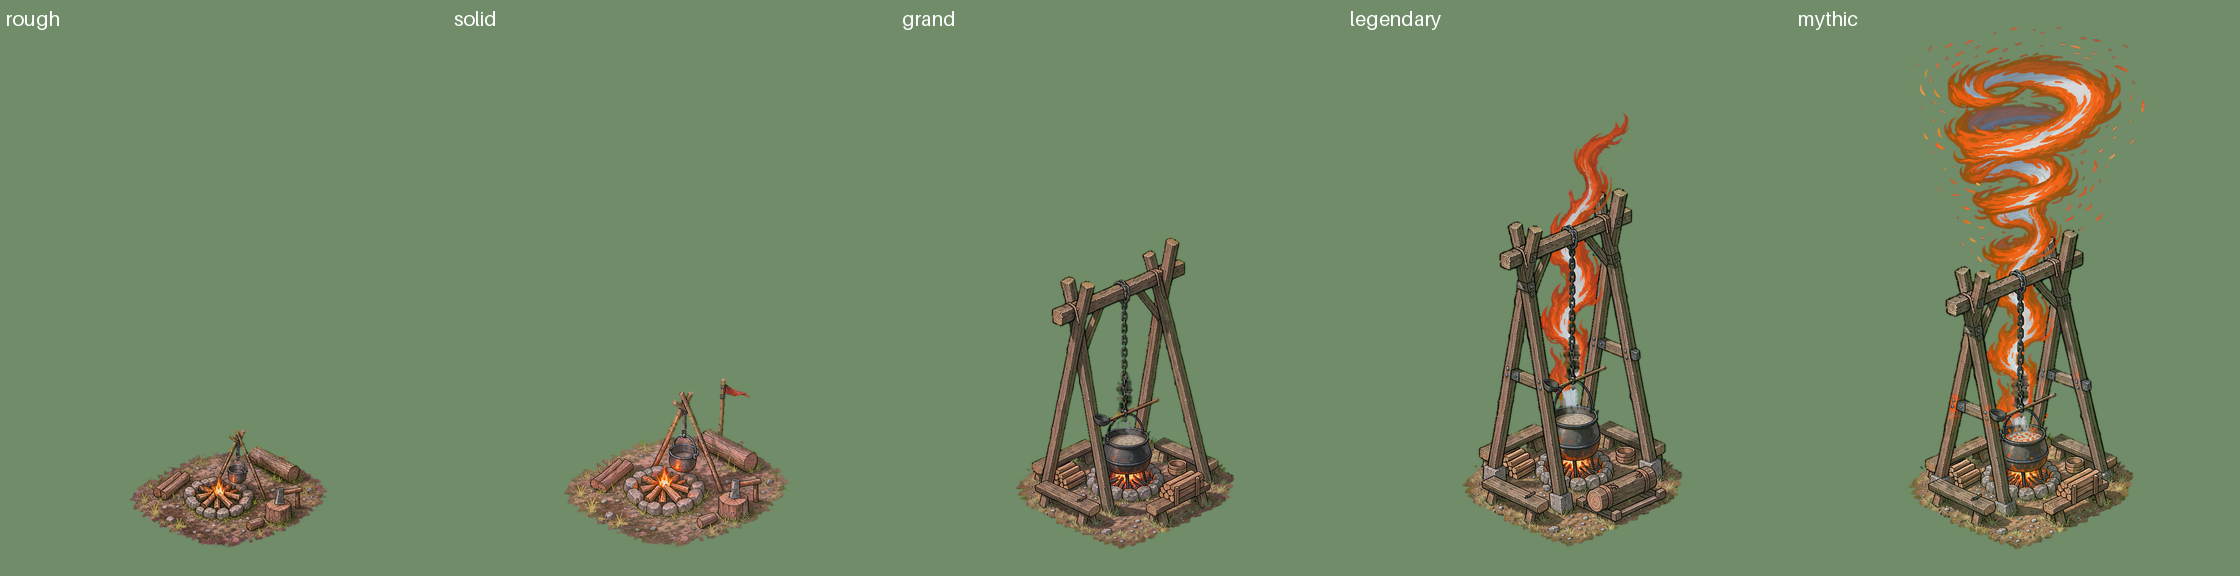
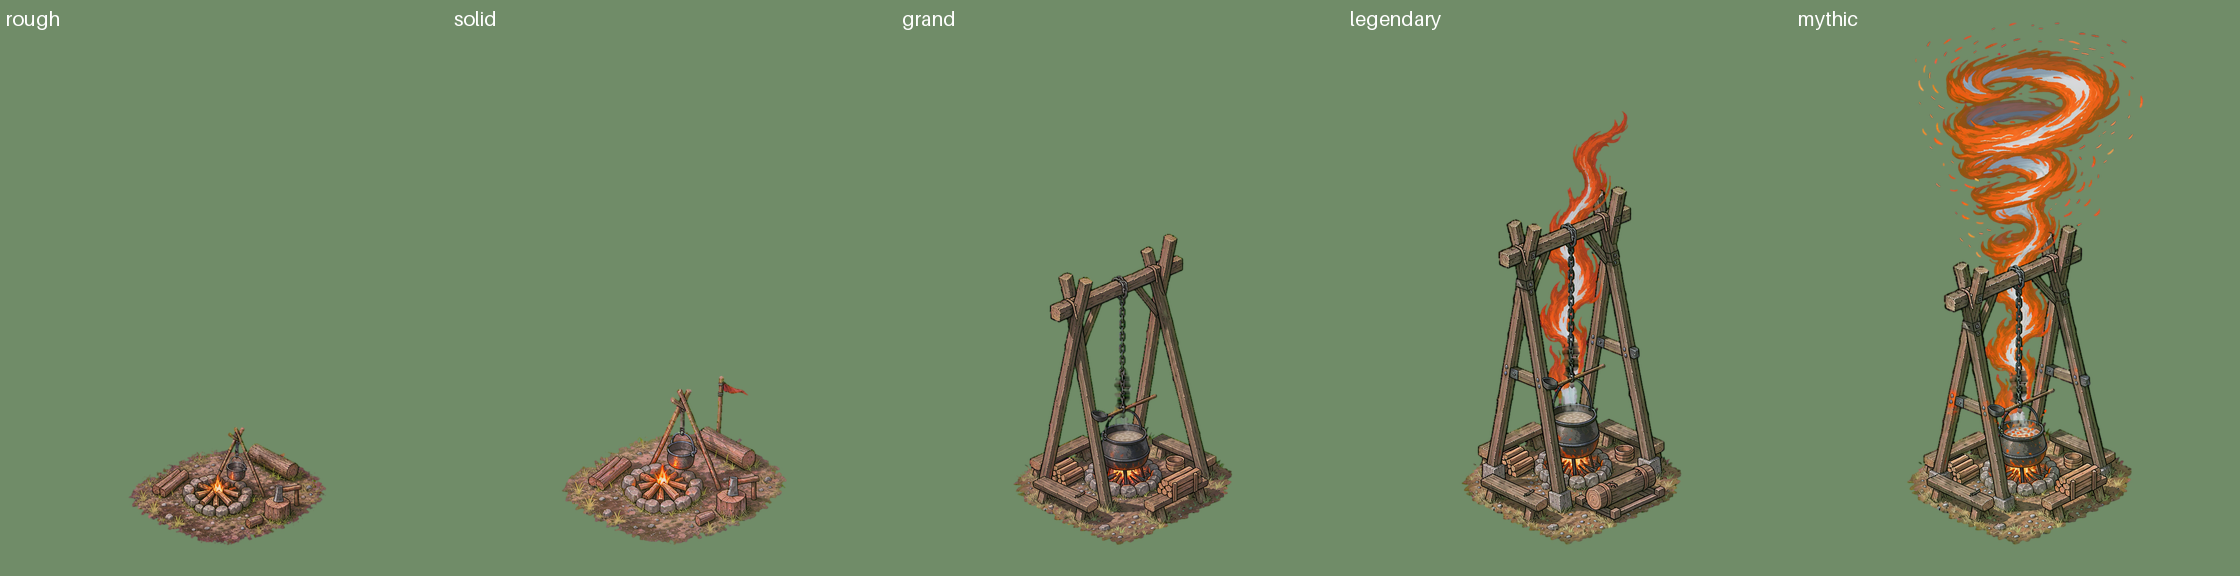
feat(bld): stage scale targets and contact registration by script, four final strips pass

diff --git a/scripts/bld/final.py b/scripts/bld/final.py
@@ -6,6 +6,7 @@
     final.py pick <code> <stage> N [--try N]             # keys the magenta, writes final/<stage>.png, measures into measures.json
     final.py rekey <code>                                # re-keys the elements from their .raw.png, no FLUX
     final.py elements <code>                             # teasers and gags, one subject per image, keyed
+    final.py repick <code>                               # seats again the picked stages on the emprise, no FLUX
     final.py strip <code>                                # final/strip.png, the five stages side by side
 
 Run paint and elements as `flock ~/.cache/bati-flux.lock timeout 590 python3 scripts/bld/final.py ...`. Never overwrites.
@@ -145,6 +146,51 @@ def measure(rgba, diamond_bottom=BOTTOM):
             "contact_dy": int(ys.max() - diamond_bottom), "contact_dx": int(low.mean() - W // 2)}
 
 
+FOUR = ("dragon_lair", "heroes_hall", "champion_arena")  # the deeds: four stages
+FRAC = {"rough": 0.38, "solid": 0.52, "grand": 0.68, "legendary": 0.84, "mythic": 1.0}
+FRAC4 = {"rough": 0.40, "solid": 0.58, "grand": 0.78, "mythic": 1.0}
+USEFUL = BOTTOM - 12  # the canvas's useful height while the mythic is not picked yet
+
+
+def target_h(code, stage, ms):
+    """FLUX fills the frame whatever the prompt says, so the height of a stage is set here: a share of the picked mythic's height."""
+    ref = ms["mythic"]["height"] if "mythic" in ms else USEFUL
+    return (FRAC4 if code in FOUR else FRAC)[stage] * ref
+
+
+def shrink(rgba, target):
+    """Scale the painting down (never up) to `target` px of silhouette height, in premultiplied alpha, with a light sharpening so
+    the ink line keeps its weight. Returns (image on a canvas of the same size, factor)."""
+    h = measure(rgba)["height"]
+    if target >= h:
+        return rgba, 1.0
+    f = target / h
+    box = rgba.getbbox()
+    part = rgba.crop(box)
+    nw, nh = max(1, round(part.width * f)), max(1, round(part.height * f))
+    small = part.convert("RGBa").resize((nw, nh), Image.LANCZOS).convert("RGBA")
+    rgb = small.convert("RGB").filter(ImageFilter.UnsharpMask(1.0, 70, 2))
+    rgb.putalpha(small.getchannel("A"))
+    out = Image.new("RGBA", rgba.size)
+    out.paste(rgb, ((box[0] + box[2] - nw) // 2, box[3] - nh))  # same centre, same lowest row: seat moves it afterwards
+    return out, f
+
+
+def seat(rgba, margin=12):
+    """Translate the painting, pixel for pixel, so its ground contact sits on the emprise's lowest corner (W/2, BOTTOM). If the top
+    of the silhouette then comes within `margin` px of the canvas top, the canvas grows upward by the missing rows (the anchor, the
+    distance to the canvas bottom, does not move). Returns (image, rows added on top)."""
+    m = measure(rgba)
+    dy, dx = BOTTOM - m["bottom_y"], W // 2 - m["contact_x"]
+    pad = max(0, margin - (m["top_y"] + dy))
+    if m["left"] + dx < 0 or m["right"] + dx >= W:
+        sys.exit(f"the painting does not fit the width once seated ({m['left']}+{dx}, {m['right']}+{dx})")
+    src, out = np.asarray(rgba), np.zeros((H + pad, W, 4), np.uint8)
+    y0, y1 = max(0, -(dy + pad)), min(H, H + pad - (dy + pad))  # source rows that land inside the new canvas
+    out[y0 + dy + pad:y1 + dy + pad, max(0, dx):W + min(0, dx)] = src[y0:y1, max(0, -dx):W - max(0, dx)]
+    return Image.fromarray(out, "RGBA"), pad
+
+
 def paint(code, stage, variants, attempt):
     from iso_loop import FLUX3
     s, d = spec(code), fdir(code)
@@ -182,12 +228,25 @@ def pick(code, stage, n, attempt):
     rgba = key(Image.open(src))
     if (n_bad := green_edge(rgba)) > 20:  # a few stray pixels are noise
         sys.exit(f"{stage}: {n_bad} green edge pixels, refused")
-    rgba.save(d / f"{stage}.png")
     mf = d / "measures.json"
     m = json.loads(mf.read_text()) if mf.exists() else {}
-    m[stage] = {**measure(rgba), "from": src.name}
+    factor = 1.0
+    if stage != "mythic":  # the mythic is never scaled: it sets the height of the others (repick after picking a new one)
+        rgba, factor = shrink(rgba, target_h(code, stage, m))
+    rgba, pad = seat(rgba)
+    rgba.save(d / f"{stage}.png")
+    m[stage] = {**measure(rgba, BOTTOM + pad), "from": src.name, "pad_top": pad, "scale": round(factor, 4)}
     mf.write_text(json.dumps(m, indent=1))
     print(stage, m[stage])
+
+
+def repick(code):
+    """Seats again every stage already picked, from its raw painting: no FLUX call."""
+    ms = json.loads((fdir(code) / "measures.json").read_text())
+    for st in ("mythic", *STAGES[:-1]):  # the mythic first: the others take their height from it
+        if st in ms:
+            stem = pathlib.Path(ms[st]["from"]).stem  # <stage>_t<N>_v<n>
+            pick(code, st, int(stem.split("_v")[1]), int(stem.split("_t")[1].split("_")[0]))
 
 
 def elements(code, rekey=False):
@@ -225,14 +284,24 @@ def strip(code):
     d = fdir(code)
     got = [st for st in STAGES if (d / f"{st}.png").exists()]
     k = 0.5
-    w, h = int(W * k), int(H * k)
+    ms = json.loads((d / "measures.json").read_text())
+    grow = max([ms[st].get("pad_top", 0) for st in got] + [0])  # the family canvas: every stage as tall as the tallest
+    w, h = int(W * k), int((H + grow) * k)
     band = Image.new("RGB", (w * len(got), h), (112, 140, 104))
     for i, st in enumerate(got):
-        t = Image.open(d / f"{st}.png").resize((w, h), Image.LANCZOS)
+        full = Image.new("RGBA", (W, H + grow))
+        full.paste(Image.open(d / f"{st}.png"), (0, grow - ms[st].get("pad_top", 0)))
+        ms[st]["canvas_h"] = H + grow
+        t = full.resize((w, h), Image.LANCZOS)
         band.paste(t.convert("RGB"), (i * w, 0), t.getchannel("A"))
         ImageDraw.Draw(band).text((i * w + 6, 6), st, fill=(255, 255, 255), font=ImageFont.load_default(20))
     band.save(d / "strip.png")
-    ms = json.loads((d / "measures.json").read_text())
+    if grow:
+        print(f"CANVAS ENLARGED: {grow} px on top, family canvas {W} x {H + grow}, anchor unchanged (emprise bottom {BOTTOM} px above the canvas bottom)")
+    (d / "measures.json").write_text(json.dumps(ms, indent=1))
+    ea, eb = json.loads((ROOT / "constants/isoSpec.json").read_text())["batiments"][code]["emprise"]
+    if "mythic" in ms and ms["mythic"]["right"] - ms["mythic"]["left"] > 2 * (ea + eb) * CELL:
+        print(f"WARNING: the mythic is {ms['mythic']['right'] - ms['mythic']['left']} px wide, more than twice the emprise ({(ea + eb) * CELL} px)")
     bad = []
     for st in got:
         if abs(ms[st]["contact_dy"]) > 20 or abs(ms[st]["contact_dx"]) > 20:
@@ -251,12 +320,12 @@ def strip(code):
 
 if __name__ == "__main__":
     ap = argparse.ArgumentParser()
-    ap.add_argument("cmd", choices=["emprise", "paint", "pick", "elements", "rekey", "strip"])
+    ap.add_argument("cmd", choices=["emprise", "paint", "pick", "elements", "rekey", "repick", "strip"])
     ap.add_argument("code")
     ap.add_argument("rest", nargs="*")
     ap.add_argument("--variants", type=int, default=2)
     ap.add_argument("--try", dest="attempt", type=int, default=1)
     a = ap.parse_args()
     {"emprise": lambda: emprise(a.code), "paint": lambda: paint(a.code, a.rest[0], a.variants, a.attempt),
-     "pick": lambda: pick(a.code, a.rest[0], int(a.rest[1]), a.attempt), "elements": lambda: elements(a.code), "rekey": lambda: elements(a.code, True),
+     "pick": lambda: pick(a.code, a.rest[0], int(a.rest[1]), a.attempt), "elements": lambda: elements(a.code), "rekey": lambda: elements(a.code, True), "repick": lambda: repick(a.code),
      "strip": lambda: strip(a.code)}[a.cmd]()

diff --git a/scripts/bld/test_final.py b/scripts/bld/test_final.py
@@ -25,6 +25,25 @@ class KeyAndMeasure(unittest.TestCase):
         self.assertEqual(final.green_edge(rgba), 0)
         self.assertGreater(final.green_edge(Image.fromarray(__import__("numpy").dstack([__import__("numpy").full((9, 9, 3), (0, 200, 0)), __import__("numpy").full((9, 9), 100)]).astype("uint8"), "RGBA")), 0)
 
+    def test_seat_lands_on_emprise_and_grows_canvas(self):
+        im = Image.new("RGBA", (final.W, final.H))
+        ImageDraw.Draw(im).rectangle([300, 5, 500, 1100], fill=(60, 80, 40, 255))  # 12 px below the corner, top at the edge
+        out, pad = final.seat(im)
+        m = final.measure(out, final.BOTTOM + pad)
+        self.assertEqual((m["contact_dy"], m["contact_dx"], out.height, m["top_y"]), (0, 0, final.H + pad, 12))
+
+    def test_shrink_corrects_a_stage_taller_than_the_next(self):
+        def tall(h):
+            im = Image.new("RGBA", (final.W, final.H))
+            ImageDraw.Draw(im).rectangle([300, final.BOTTOM - h, 600, final.BOTTOM], fill=(60, 80, 40, 255))
+            return im
+        rough, solid = tall(1000), tall(800)  # as painted, the rough is taller than the solid
+        ms = {"mythic": {"height": 1000}}
+        r, fr = final.shrink(rough, final.target_h("x", "rough", ms))
+        s, fs = final.shrink(solid, final.target_h("x", "solid", ms))
+        self.assertLess(final.measure(r)["height"], final.measure(s)["height"])  # 380 against 520
+        self.assertEqual(final.shrink(tall(300), 500)[1], 1.0)  # never enlarged
+
 
 if __name__ == "__main__":
     unittest.main()

diff --git a/docs/designs/village-buildings/BRIEF-peinture.md b/docs/designs/village-buildings/BRIEF-peinture.md
@@ -19,6 +19,9 @@ python3 scripts/bld/final.py strip <code>
 - **Personne :** toute figure humaine visible refuse la variante.
 - **Mythique :** même structure que le legendary, en plus grand, avec un vrai spectacle, dans le bâtiment autant que dans l'effet. Ni runes ni lettres peintes.
 - **Couleur :** aucune couleur proche du magenta dans le bâtiment, le fond magenta la mangerait au détourage. Si le prompt en demande, remplace-la par une teinte chaude ou froide franche, dans la spec, et note-le.
+- **Contact au sol :** `pick` recale la peinture sur l'emprise par script, ne repeins jamais pour ça, et n'en parle pas dans les prompts : demander le losange le fait peindre. `repick <code>` le refait sans FLUX.
+- **Taille :** `pick` et `repick` réduisent chaque stade à sa hauteur cible par script. Ne repeins jamais pour la taille. Peins plutôt le mythique avant de juger `strip`, ou lance `repick` à la fin.
+- **Ordre :** tes reprises vont d'abord au mythique, à la continuité et aux erreurs d'image.
 - **Reprises :** `strip` est le contrôle, il doit passer. Au plus 2 reprises par stade (`--try N`), en changeant une seule chose à la fois. Si ça ne passe toujours pas, garde la meilleure, dis-le, ne boucle pas.
 - **Plafond :** 2 $ pour le bâtiment. Compte sur les images (0,048 $ pièce), car le registre compte aussi les autres.
 - **Alerte de budget :** arrête-toi et dis-le. N'exécute jamais `budget ack`, `klein-ack`, et ne touche pas au plafond.
